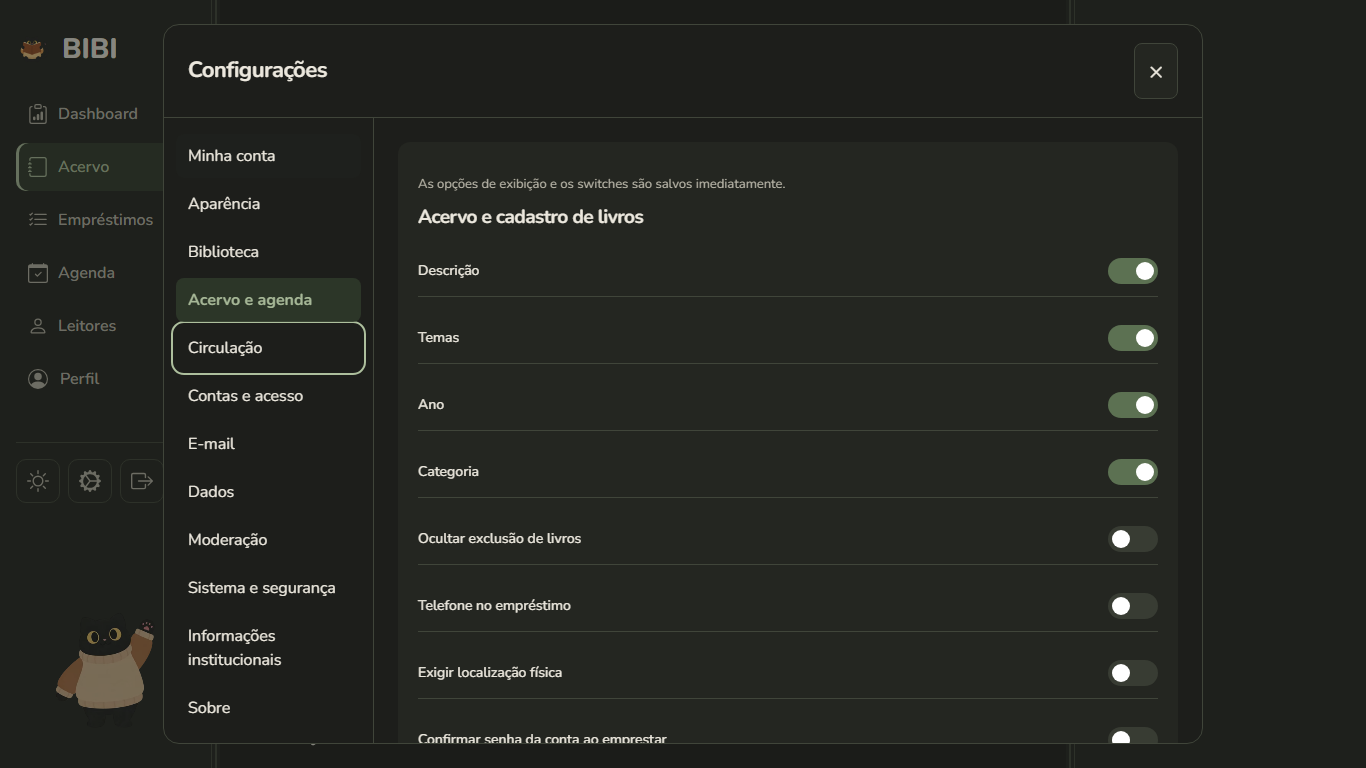
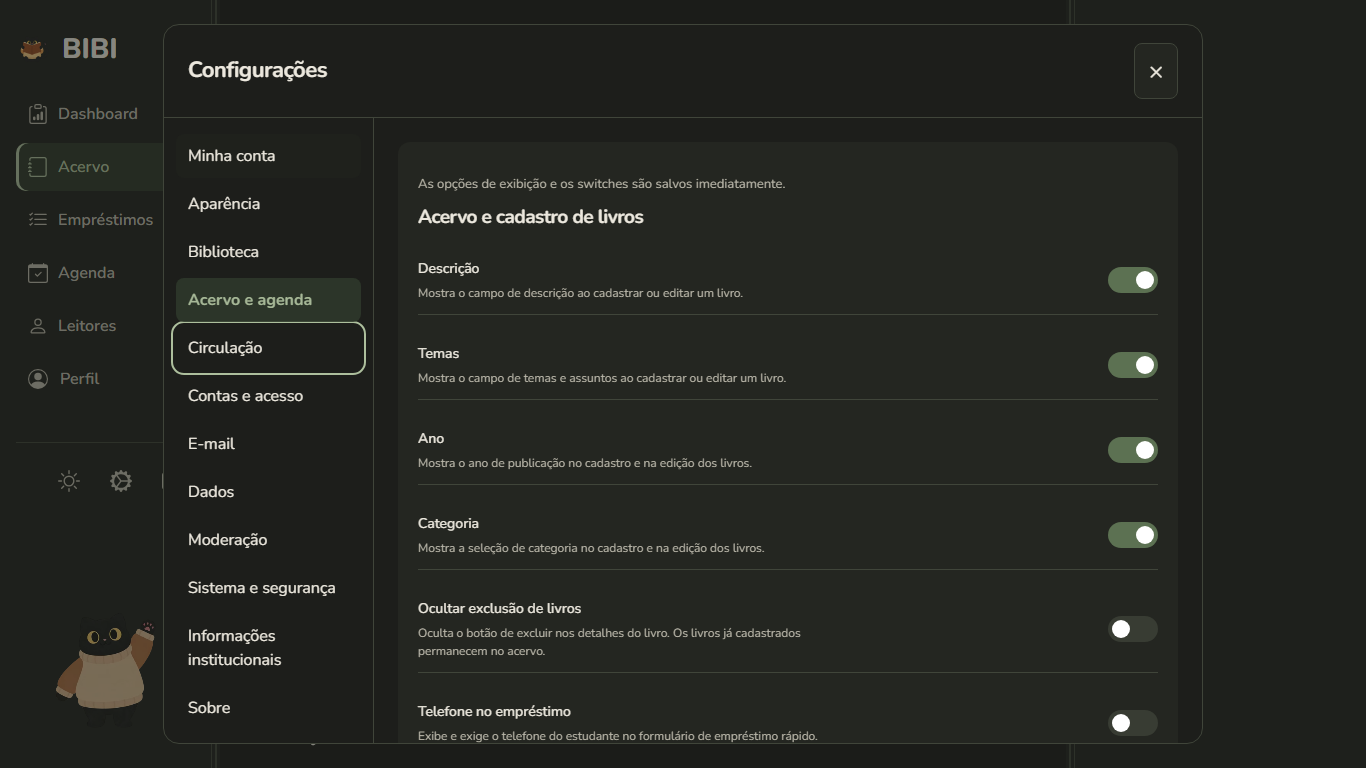
Corrige seleção de tema e numeração da agenda e restaura descrições das configurações

diff --git a/static/js/settings_help.js b/static/js/settings_help.js
@@ -1,0 +1,125 @@
+(() => {
+    const descriptions = {
+        '#settings-theme': 'Escolha entre as cores claras e escuras do BIBI. A preferência fica vinculada à sua conta e é salva na hora.',
+        '[data-setting="campoDescricaoVisivel"]': 'Mostra o campo de descrição ao cadastrar ou editar um livro.',
+        '[data-setting="campoTemasVisivel"]': 'Mostra o campo de temas e assuntos ao cadastrar ou editar um livro.',
+        '[data-setting="campoAnoVisivel"]': 'Mostra o ano de publicação no cadastro e na edição dos livros.',
+        '[data-setting="campoCategoriaVisivel"]': 'Mostra a seleção de categoria no cadastro e na edição dos livros.',
+        '[data-setting="bloquearExcluirLivro"]': 'Oculta o botão de excluir nos detalhes do livro. Os livros já cadastrados permanecem no acervo.',
+        '[data-setting="campoNumeroUsuario"]': 'Exibe e exige o telefone do estudante no formulário de empréstimo rápido.',
+        '[data-setting="mostrarColunaAula"]': 'Exibe a coluna com a numeração dos horários: 1ª aula, 2ª aula e assim por diante.',
+        '[data-setting="obrigar_localizacao_livro"]': 'Exige informar a prateleira ou localização física ao cadastrar um livro.',
+        '[data-setting="bloquear_excluir_agendamento"]': 'Impede excluir agendamentos já registrados. Novos agendamentos continuam disponíveis.',
+        '[data-setting="exigir_senha_agendamento"]': 'Solicita a senha real da conta para registrar um agendamento. Alterar esta opção também exige sua senha.',
+        '[data-setting="exigir_senha_emprestimo"]': 'Solicita a senha real da conta para registrar um empréstimo. Alterar esta opção também exige sua senha.',
+        '[data-setting="bloquear_email"]': 'Suspende os envios de e-mail da instalação. As notificações internas continuam disponíveis.',
+        '#password-form [name="senha_atual"]': 'Informe a senha que você usa atualmente para entrar no BIBI.',
+        '#password-form [name="senha"]': 'Use de 12 a 128 caracteres. Após a alteração, será necessário entrar novamente.',
+        '#password-form [name="confirmacao"]': 'Repita a nova senha para evitar erros de digitação.',
+        '#verify-email-form [name="email"]': 'Informe o endereço atual para verificá-lo ou um novo endereço para trocar seu e-mail de acesso.',
+        '#verify-email-form [name="senha_atual"]': 'Confirma que você autoriza o envio do código de verificação.',
+        '#confirm-email-form [name="codigo"]': 'Digite o código enviado ao endereço que deseja verificar.',
+        '#confirm-email-form [name="email"]': 'Use o mesmo endereço informado ao solicitar o código.',
+        '#institution-form [name="biblioteca_nome"]': 'Nome que identifica esta biblioteca nas informações institucionais.',
+        '#institution-form [name="endereco_rede"]': 'Endereço HTTPS usado para acessar o BIBI na rede. O servidor e o acesso seguro precisam estar configurados pela escola.',
+        '#institution-form [name="termos_uso"]': 'Regras de uso da biblioteca, responsabilidades e condições de acesso, visíveis na página institucional.',
+        '#institution-form [name="aviso_privacidade"]': 'Informe quem cuida dos dados, como entrar em contato, as finalidades de uso e os prazos de retenção.',
+        '#institution-form [name="senha_atual"]': 'Obrigatória ao mudar o endereço de acesso na rede.',
+        '#settings-lessons': 'Quantidade de horários exibidos por dia e período na Agenda, de 1 a 20. Use Salvar quantidade para aplicar.',
+        '#rules-form [name="retirada_horas"]': 'Tempo para o leitor retirar um exemplar separado. Defina este prazo para habilitar as reservas.',
+        '#invite-reader': 'Selecione o leitor que receberá o convite ou o código de recuperação. Confira sua identidade e seu e-mail.',
+        '#invite-form [name="finalidade"]': 'Ativação cria o acesso pessoal do leitor; recuperação permite que ele defina uma nova senha para uma conta existente.',
+        '#managed-account': 'Selecione a conta cujo acesso será alterado. Confira o nome e o papel antes de confirmar.',
+        '#access-form-admin [name="papel"]': 'Leitores acessam seus próprios dados. Bibliotecários também podem administrar a biblioteca.',
+        '#access-form-admin [name="ativa"]': 'Bloquear impede o acesso à conta. Reativar permite que a pessoa volte a entrar.',
+        '#access-form-admin [name="motivo"]': 'Explique a alteração. O motivo será registrado na auditoria.',
+        '#access-form-admin [name="senha_atual"]': 'Informe a senha da sua própria conta para autorizar a mudança de acesso.',
+        '#smtp-form [name="smtp_host"]': 'Servidor de envio informado pelo provedor do e-mail remetente, como smtp.gmail.com.',
+        '#smtp-form [name="smtp_port"]': 'Use a porta indicada pelo provedor: 587 com STARTTLS ou 465 com TLS.',
+        '#smtp-form [name="email_organizacao"]': 'Endereço que enviará os convites e avisos da biblioteca.',
+        '#smtp-form [name="email_app_password"]': 'Credencial de envio fornecida pelo provedor. Deixe vazio para manter a credencial já salva.',
+        '#smtp-form [name="remover_credencial"]': 'Apaga a credencial de envio ao salvar o remetente. Os envios precisarão ser configurados novamente.',
+        '#smtp-form [name="senha_atual"]': 'Necessária somente para autorizar a remoção da credencial salva.',
+        '#occurrence-book': 'Livro ao qual a perda, o dano, o reparo ou a baixa se refere.',
+        '#occurrence-form [name="tipo"]': 'Observação apenas registra o dano; reparo retira exemplares livres e retorno os devolve. Baixa e perda reduzem o estoque.',
+        '#occurrence-form [name="quantidade"]': 'Número de exemplares envolvidos nesta ocorrência.',
+        '#occurrence-form [name="emprestimo_id"]': 'Preencha para vincular uma perda ou observação a um empréstimo. Para exemplares livres, deixe vazio.',
+        '#occurrence-form [name="observacao"]': 'Descreva o ocorrido para preservar o contexto no histórico da biblioteca.',
+        '#csv-kind': 'Escolha o cadastro que será importado. Cada tipo possui seu próprio modelo de colunas.',
+        '#csv-file': 'Selecione um CSV com até 2 MB e 2.000 linhas. A prévia permite conferir os dados antes de importar.',
+        '#csv-mapping select': 'Escolha a coluna do arquivo que contém este dado. Confira o resultado na prévia antes de confirmar.',
+        '#dados form[method="get"] [name="formato"]': 'O agregado reúne totais mensais sem nomes. O detalhado inclui dados pessoais para uso administrativo.',
+        '#dados form[method="get"] [name="inicio"]': 'Inclui empréstimos a partir desta data. Deixe vazio para não definir uma data inicial.',
+        '#dados form[method="get"] [name="fim"]': 'Inclui empréstimos até esta data. Deixe vazio para não definir uma data final.',
+        '#dados form[method="get"] [name="status"]': 'Limita o relatório à situação escolhida ou inclui todas as situações.',
+        '#restore-password': 'Sua senha atual autoriza validar e restaurar o backup nesta instalação.',
+        '#restore-file': 'Selecione o arquivo ZIP de backup criado pelo BIBI. A validação confere o formato e os arquivos antes da restauração.',
+        '#restore-confirm': 'Confirma a substituição dos dados atuais pelo backup validado. Sessões e códigos anteriores serão invalidados.',
+        '#download-backup': 'Cria uma cópia consistente do banco e dos arquivos persistentes para baixar. Guarde o ZIP em local protegido.',
+        '#refresh-health': 'Consulta o estado atual desta instalação, sem fazer testes de conexão com serviços externos.',
+        '#hide-invite': 'Oculta o código nesta tela sem revogá-lo. Use após entregá-lo ao leitor.',
+        '#renewal-list input': 'Informe por que o pedido de renovação será recusado.',
+        '#moderation-list input': 'Registre o motivo para publicar ou ocultar o comentário; ele acompanha a decisão de moderação.',
+    };
+    for (const category of ['estudante','professor']) {
+        for (const [key,description] of Object.entries({
+            maximo:'Quantidade máxima de exemplares que uma pessoa desta categoria pode manter emprestados ao mesmo tempo.',
+            prazo:'Prazo de empréstimo em dias para esta categoria. Salvar não altera os vencimentos já registrados.',
+            renovacoes:'Número máximo de renovações permitidas por empréstimo. Zero impede renovações.',
+            bloquear_atraso:'Impede novos empréstimos e renovações para pessoas desta categoria com devoluções em atraso.',
+        })) descriptions[`#rules-form [name="${category}_${key}"]`]=description;
+    }
+    const formNotes = {
+        'verify-email-form':'O endereço de acesso só é atualizado após a confirmação do código. Sem envio de e-mail configurado, procure o bibliotecário.',
+        'confirm-email-form':'Confirmar o código verifica o endereço e encerra as sessões anteriores da conta.',
+        'institution-form':'Use Salvar instituição para aplicar as alterações destes campos.',
+        'rules-form':'Use Salvar regras para aplicar os limites e prazos de cada categoria.',
+        'invite-form':'Gerar código permite a entrega presencial. Enviar convite usa o remetente configurado. Revogar invalida os códigos ainda abertos deste leitor.',
+        'access-form-admin':'A confirmação encerra as sessões anteriores da conta alterada. O último bibliotecário ativo não pode ser bloqueado nem perder seu papel.',
+        'smtp-form':'Salve o remetente antes de testar. O teste envia uma mensagem ao e-mail da conta bibliotecária que o solicitou.',
+        'occurrence-form':'Registrar ocorrência grava o histórico e ajusta o estoque conforme o tipo escolhido.',
+        'csv-form':'Pré-visualizar não grava cadastros. Confira o mapeamento e os erros; só Confirmar importação adiciona os registros.',
+        'restore-form':'Validar backup não substitui dados. Restaurar exige um arquivo validado e a confirmação acima; ao concluir, você voltará ao login.',
+    };
+    const groupNotes = {
+        'renewal-list':'Revise os pedidos dos leitores. Aprovar estende o empréstimo conforme as regras; recusar exige informar o motivo.',
+        'audit-list':'Histórico das operações administrativas: quando ocorreram, qual conta agiu e o resultado registrado.',
+    };
+    let sequence=0;
+    window.descreverConfiguracoes=(root=document.getElementById('settings-content'))=>{
+        if(!root)return;
+        for(const [selector,text] of Object.entries(descriptions)) {
+            root.querySelectorAll(selector).forEach(control=>{
+                if(control.dataset.settingsHelp)return;
+                const help=document.createElement('small');help.className='settings-help';help.id='settings-help-'+(++sequence);help.textContent=text;
+                const label=control.closest('label');
+                if(label&&!control.hasAttribute('aria-label')){
+                    const title=[...label.childNodes].filter(node=>node.nodeType===Node.TEXT_NODE).map(node=>node.textContent).join(' ').trim();
+                    if(title)control.setAttribute('aria-label',title);
+                }
+                if(label?.classList.contains('config-toggle-row')){
+                    const copy=document.createElement('span');copy.className='config-toggle-copy';
+                    [...label.childNodes].filter(node=>node.nodeType===Node.TEXT_NODE).forEach(node=>copy.append(node));
+                    copy.append(help);label.prepend(copy);
+                }else if(label)label.append(help);
+                else control.after(help);
+                control.dataset.settingsHelp=help.id;
+                control.setAttribute('aria-describedby',[control.getAttribute('aria-describedby'),help.id].filter(Boolean).join(' '));
+                const wrapper=control.nextElementSibling;
+                if(control.tagName==='SELECT'&&wrapper?.classList.contains('custom-select')){
+                    wrapper.dataset.descriptionId=help.id;wrapper.querySelector('button')?.setAttribute('aria-describedby',help.id);
+                }
+            });
+        }
+        for(const [id,text] of Object.entries(formNotes)){
+            const form=root.querySelector('#'+id);
+            if(!form||form.querySelector('.settings-form-help'))continue;
+            const note=document.createElement('p');note.className='settings-form-help';note.textContent=text;form.append(note);
+        }
+        for(const [id,text] of Object.entries(groupNotes)){
+            const group=root.querySelector('#'+id);
+            if(!group||group.previousElementSibling?.dataset.settingsGroupHelp===id)continue;
+            const note=document.createElement('p');note.dataset.settingsGroupHelp=id;note.textContent=text;group.before(note);
+        }
+    };
+})();

diff --git a/static/js/gestao.js b/static/js/gestao.js
@@ -50,11 +50,12 @@ async function refreshLists(){
             else if(path==='avaliacoes'){article.append(accountText('strong',`${row.livro} · ${row.estrelas}/5 · ${row.estado}`),accountText('p',row.comentario));const reason=document.createElement('input');reason.placeholder='Motivo da moderação';reason.setAttribute('aria-label','Motivo da moderação');article.append(reason);for(const [label,state] of [['Publicar','publicado'],['Ocultar','oculto']])article.append(accountButton(label,async()=>{await accountApi('/api/gestao/avaliacoes/'+row.id,'PUT',{estado:state,motivo:reason.value});await refreshLists();}));}
             else article.append(accountText('p',`${row.quando} · Conta ${row.conta_id ?? 'sistema'} · ${row.acao} · ${row.recurso} · ${row.resultado}${row.motivo?' · '+row.motivo:''}`));container.append(article);
         }
+        window.descreverConfiguracoes?.(container);
     }
 }
 document.getElementById('csv-kind')?.addEventListener('change',event=>{document.getElementById('csv-model').href='/api/gestao/csv/modelo/'+event.target.value;csvData=null;document.getElementById('csv-confirm').disabled=true;});
 async function csvPreview(){const r=await accountApi(`/api/gestao/csv/${csvData.tipo}/previa`,'POST',{conteudo:csvData.conteudo,mapeamento:csvMapping});const container=document.getElementById('csv-preview');container.replaceChildren(accountText('p',`${r.linhas.length} linhas. ${r.linhas.filter(l=>l.erros.length).length} com erros.`));r.linhas.slice(0,100).forEach(row=>container.append(accountText('p',`Linha ${row.linha}: ${Object.values(row.dados).join(' · ')}${row.erros.length?' — '+row.erros.join(' '):''}`)));document.getElementById('csv-confirm').disabled=!r.linhas.length||r.linhas.some(l=>l.erros.length);return r;}
-accountForm('csv-form',async data=>{const file=document.getElementById('csv-file').files[0];if(file.size>2*1024*1024)throw new Error('Limite de 2 MB.');csvData={tipo:data.tipo,conteudo:await file.text()};csvMapping={};const r=await csvPreview();const map=document.getElementById('csv-mapping');map.replaceChildren();for(const key of r.campos){const label=accountText('label',key);const select=document.createElement('select');select.append(option('','Não informado'));r.colunas.forEach(col=>select.append(option(col,col)));select.value=r.colunas.includes(key)?key:'';select.onchange=async()=>{csvMapping[key]=select.value;await csvPreview();};label.append(select);map.append(label);}});
+accountForm('csv-form',async data=>{const file=document.getElementById('csv-file').files[0];if(file.size>2*1024*1024)throw new Error('Limite de 2 MB.');csvData={tipo:data.tipo,conteudo:await file.text()};csvMapping={};const r=await csvPreview();const map=document.getElementById('csv-mapping');map.replaceChildren();for(const key of r.campos){const label=accountText('label',key);const select=document.createElement('select');select.append(option('','Não informado'));r.colunas.forEach(col=>select.append(option(col,col)));select.value=r.colunas.includes(key)?key:'';select.onchange=async()=>{csvMapping[key]=select.value;await csvPreview();};label.append(select);map.append(label);}window.descreverConfiguracoes?.(map);});
 accountAction(document.getElementById('csv-confirm'),async()=>{if(!confirm('Importar os registros da prévia?'))return;const r=await accountApi(`/api/gestao/csv/${csvData.tipo}/importar`,'POST',{conteudo:csvData.conteudo,mapeamento:csvMapping,confirmado:true});status.textContent=`${r.importados} registros importados.`;csvData=null;document.getElementById('csv-confirm').disabled=true;document.getElementById('csv-form').reset();window.settingsSaved?.(document.getElementById('csv-form'));await loadManagement(false);});
 accountAction(document.getElementById('download-backup'),async()=>{const response=await fetch('/api/gestao/backup',{method:'POST',headers:{'X-CSRF-Token':document.querySelector('meta[name=csrf-token]').content}});if(!response.ok)throw new Error((await response.json()).erro);const url=URL.createObjectURL(await response.blob());const link=document.createElement('a');link.href=url;link.download='BIBI-backup.zip';link.click();setTimeout(()=>URL.revokeObjectURL(url),10000);status.textContent='Backup criado. Guarde o arquivo em local protegido.';});
 async function restoreRequest(confirm){const data=new FormData();data.append('arquivo',document.getElementById('restore-file').files[0]);data.append('confirmado',String(confirm));data.append('senha_atual',document.getElementById('restore-password').value);const response=await fetch('/api/gestao/restaurar',{method:'POST',headers:{'X-CSRF-Token':document.querySelector('meta[name=csrf-token]').content},body:data});const r=await response.json();if(!response.ok)throw new Error(r.erro);return r;}

diff --git a/static/js/preferencias.js b/static/js/preferencias.js
@@ -5,7 +5,7 @@ theme.addEventListener('change',async()=>{
  window.settingsOperation?.(theme,1);theme.disabled=true;
  try{await accountApi('/api/minha-conta/preferencias','PUT',{tema:theme.value});
  const config=JSON.parse(localStorage.getItem('bibiConfig')||'{}');config.darkMode=theme.value==='escuro';localStorage.setItem('bibiConfig',JSON.stringify(config));document.body.classList.toggle('dark-mode',config.darkMode);document.getElementById('theme-toggle-btn').setAttribute('aria-pressed',String(config.darkMode));if(document.body.dataset.page==='app')toggleTheme(config.darkMode);
- }catch(e){document.getElementById('settings-status').textContent=e.message;}
+ }catch(e){theme.value=document.body.classList.contains('dark-mode')?'escuro':'claro';document.getElementById('settings-status').textContent=e.message;}
  finally{theme.disabled=false;window.settingsOperation?.(theme,-1);}
 });
 async function settingsControls(){
@@ -14,11 +14,11 @@ async function settingsControls(){
  const globalFields=await accountApi('/api/config/cadastro');Object.assign(config,globalFields);
  const fieldKeys=['campoDescricaoVisivel','campoTemasVisivel','campoAnoVisivel','campoCategoriaVisivel','bloquearExcluirLivro','campoNumeroUsuario','mostrarColunaAula'];
  for(const [key,label] of [['campoDescricaoVisivel','Descrição'],['campoTemasVisivel','Temas'],['campoAnoVisivel','Ano'],['campoCategoriaVisivel','Categoria'],['bloquearExcluirLivro','Ocultar exclusão de livros'],['campoNumeroUsuario','Telefone no empréstimo'],['mostrarColunaAula','Mostrar coluna Aula']]){
-  const row=accountText('label',label,'config-toggle-row');const input=document.createElement('input');input.type='checkbox';input.checked=config[key]??!['bloquearExcluirLivro','campoNumeroUsuario'].includes(key);row.prepend(input);
+  const row=accountText('label',label,'config-toggle-row');const input=document.createElement('input');input.type='checkbox';input.dataset.setting=key;input.checked=config[key]??!['bloquearExcluirLivro','campoNumeroUsuario'].includes(key);row.prepend(input);
   input.onchange=async()=>{window.settingsOperation?.(input,1);input.disabled=true;config[key]=input.checked;try{await accountApi('/api/config/cadastro','PUT',Object.fromEntries(fieldKeys.map(k=>[k,config[k]??!['bloquearExcluirLivro','campoNumeroUsuario'].includes(k)])));config.darkMode=document.body.classList.contains('dark-mode');localStorage.setItem('bibiConfig',JSON.stringify(config));}catch(e){input.checked=!input.checked;config[key]=input.checked;document.getElementById('settings-status').textContent=e.message;}finally{input.disabled=false;window.settingsOperation?.(input,-1);}};document.getElementById(key==='mostrarColunaAula'?'agenda-settings':'book-settings').append(row);
  }
  for(const [key,label,container,field] of [['obrigar_localizacao_livro','Exigir localização física','book-settings','ativo'],['bloquear_excluir_agendamento','Bloquear exclusão de agendamento','agenda-settings','ativo'],['exigir_senha_agendamento','Confirmar senha da conta ao agendar','agenda-settings','ativo'],['exigir_senha_emprestimo','Confirmar senha da conta ao emprestar','book-settings','ativo'],['bloquear_email','Bloquear envio de e-mail','email','bloqueado']]){
-  const value=await accountApi('/api/config/'+key+'/status');const labelEl=accountText('label',label,'config-toggle-row');const input=document.createElement('input');input.type='checkbox';input.checked=value[field];labelEl.prepend(input);document.getElementById(container).append(labelEl);
+  const value=await accountApi('/api/config/'+key+'/status');const labelEl=accountText('label',label,'config-toggle-row');const input=document.createElement('input');input.type='checkbox';input.dataset.setting=key;input.checked=value[field];labelEl.prepend(input);document.getElementById(container).append(labelEl);
   input.onchange=async()=>{window.settingsOperation?.(input,1);input.disabled=true;try{const senha_atual=key.startsWith('exigir_senha')?await confirmarSenhaConta():undefined;if(senha_atual===null){input.checked=!input.checked;return;}await accountApi('/api/config/'+key+'/set','POST',{[field]:input.checked,senha_atual});}catch(e){input.checked=!input.checked;document.getElementById('settings-status').textContent=e.message;}finally{input.disabled=false;window.settingsOperation?.(input,-1);}};
  }
  document.getElementById('settings-lessons').value=(await accountApi('/api/config/quantidade_aulas/status')).quantidade;

diff --git a/static/js/ui.js b/static/js/ui.js
@@ -109,9 +109,12 @@ class CustomSelect {
         const control=document.createElement('button');control.type='button';control.className='select-selected';
         control.setAttribute('role','combobox');control.setAttribute('aria-haspopup','listbox');control.setAttribute('aria-expanded','false');
         control.setAttribute('aria-label',this.container.dataset.label || this.container.previousElementSibling?.textContent || 'Selecionar opção');
+        if(this.container.dataset.descriptionId)control.setAttribute('aria-describedby',this.container.dataset.descriptionId);
         const label=document.createElement('span');control.append(label);
         const list=document.createElement('div');list.className='select-items';list.role='listbox';list.id='bibi-options-'+crypto.getRandomValues(new Uint32Array(1))[0];control.setAttribute('aria-controls',list.id);
         this.options.forEach((opt,index)=>{const item=document.createElement('div');item.textContent=opt.text;item.dataset.value=String(opt.value);item.role='option';item.id=list.id+'-'+index;
+            // Keep focus on the combobox until click commits the option.
+            item.addEventListener('mousedown',event=>event.preventDefault());
             item.addEventListener('click',()=>{if(opt.disabled)return;this.setValue(opt.value);this.close();control.focus();});list.append(item);});
         control.addEventListener('click',()=>this.toggle());
         control.addEventListener('keydown',event=>{
@@ -141,6 +144,7 @@ function enhanceNativeSelects(){
  document.querySelectorAll('select:not([multiple])').forEach(select=>{
   if(select.dataset.enhanced)return;
   const wrapper=document.createElement('div');wrapper.dataset.label=select.getAttribute('aria-label') || Array.from(select.labels?.[0]?.childNodes||[]).filter(n=>n.nodeType===3).map(n=>n.textContent).join('').trim() || 'Selecionar opção';select.after(wrapper);
+  wrapper.dataset.descriptionId=select.getAttribute('aria-describedby')||'';
   const options=()=>Array.from(select.options,o=>({value:o.value,text:o.text,disabled:o.disabled}));
   const component=new CustomSelect(wrapper,options(),value=>{if(select.disabled)return;select.value=value;select.dispatchEvent(new Event('change',{bubbles:true}));},select.value);
   wrapper.querySelector('button').disabled=select.disabled;

diff --git a/static/css/contas.css b/static/css/contas.css
@@ -118,6 +118,10 @@
 .settings-panels pre { white-space:pre-wrap; overflow-wrap:anywhere; font-size:12px; }
 .settings-panels .config-toggle-row { flex-direction:row; align-items:center; justify-content:space-between; gap:20px; padding:12px 0; border-bottom:1px solid var(--border); font-weight:500; }
 .config-toggle-row .switch { flex-shrink:0; order:2; }
+.config-toggle-copy { flex:1; min-width:0; }
+.settings-panels .settings-help { display:block; margin-top:6px; color:var(--light); font-size:12px; font-weight:400; line-height:1.5; }
+.settings-panels .config-toggle-copy .settings-help { margin-top:5px; max-width:62ch; }
+.settings-panels .settings-form-help { font-size:12px; margin:12px 0 0; }
 .health-summary { display:grid; grid-template-columns:minmax(100px,1fr) minmax(0,2fr); gap:14px; font-size:14px; }
 .health-summary dd { margin:0; overflow-wrap:anywhere; }
 .health-summary dt { font-weight:600; }
@@ -169,7 +173,7 @@
 @media(min-width:1000px){.avatar-preview-column { position:sticky; top:0; }.avatar-preview { position:static; }.avatar-actions { flex-direction:column; }#avatar-options { grid-row:auto; }}
 @media(max-width:600px){.avatar-preview img { width:170px; height:170px; }.avatar-actions .btn-primary { flex-basis:100%; }.avatar-choices { grid-template-columns:repeat(auto-fill,minmax(76px,1fr)); }}
 
-.sidebar-buttons .icon-item { background:transparent; color:var(--light); border:1px solid var(--border); border-radius:10px; }
+.sidebar-buttons .icon-item { background:transparent; color:var(--light); border:0; border-radius:10px; }
 .sidebar-buttons .icon-item:hover { background:var(--accent-soft); color:var(--accent-strong); }
 .sidebar-buttons .icon-item svg { width:22px; height:22px; }
 .settings-panels .custom-select { margin-top:7px; width:100%; }

diff --git a/templates/acesso.html b/templates/acesso.html
@@ -6,7 +6,7 @@
 <main class="account-card">
 <a href="/" class="account-brand"><img src="/static/images/icon.png" alt=""> BIBI</a>
 {% if modo == 'setup' %}<h1>Vamos preparar sua biblioteca</h1><p>Cadastre o primeiro bibliotecário. Seus livros e históricos existentes serão preservados. Não é necessário configurar e-mail agora.</p>
-{% elif modo == 'offline' %}<h1>Recuperação local</h1><p>No servidor, use Conta → Recuperar conta na janela desktop. {% if legado %}Um código legado desta instalação ainda pode ser usado uma única vez.{% else %}A recuperação será aberta pelo menu nativo; não há código manual para guardar.{% endif %}</p>
+{% elif modo == 'offline' %}<h1>Recuperação local</h1><p>No servidor, pressione Alt e use Conta → Recuperar conta na janela desktop. {% if legado %}Um código legado desta instalação ainda pode ser usado uma única vez.{% else %}A recuperação será aberta pelo menu nativo; não há código manual para guardar.{% endif %}</p>
 {% else %}<h1 id="access-title">Entrar na biblioteca</h1><button type="button" id="back-login" hidden>Voltar para entrar</button><p id="access-help" hidden></p>{% endif %}
 <form id="access-form" method="post">
 {% if modo == 'setup' %}<label>Biblioteca ou escola<input name="biblioteca" required maxlength="180" autocomplete="organization"></label><label>Nome do bibliotecário<input name="nome" required maxlength="180" autocomplete="name"></label>{% endif %}

diff --git a/static/js/settings_modal.js b/static/js/settings_modal.js
@@ -27,6 +27,7 @@
         accountForm('password-form',async data=>{await accountApi('/api/minha-conta/senha','POST',data);location.assign('/acesso');});
         accountForm('verify-email-form',async(data,form)=>{const r=await accountApi('/api/minha-conta/email/enviar','POST',data);form.elements.senha_atual.value='';accountStatus(r.mensagem,form);});
         accountForm('confirm-email-form',async data=>{await accountApi('/api/minha-conta/email/confirmar','POST',data);location.assign('/acesso');});
+        await script('/static/js/settings_help.js');
         await script('/static/js/preferencias.js');
         await window.settingsPreferencesReady;
         if(document.body.dataset.admin==='true'){
@@ -36,6 +37,7 @@
         content.querySelectorAll('.settings-panels > section').forEach(panel=>panel.classList.add('config-panel'));
         const note=accountText('p','As opções de exibição e os switches são salvos imediatamente.');
         document.getElementById('cadastro')?.prepend(note);
+        window.descreverConfiguracoes(content);
         snapshot();
     }
     window.abrirConfiguracoesCompartilhadas=async(key='minha-conta')=>{

diff --git a/static/css/app.css b/static/css/app.css
@@ -697,7 +697,7 @@ h2 { font-size: clamp(22px, 1.8vw, 30px); line-height: 1.25; letter-spacing: -.5
 .section-header { margin-bottom: 22px; }
 .nav-menu li.active { background: var(--accent-soft); color: var(--accent-strong); box-shadow: inset 3px 0 var(--accent-strong); }
 .nav-menu li:hover { background: var(--accent-soft); color: var(--accent-strong); }
-.sidebar-buttons { justify-content: flex-start; margin-top: 24px; border-top: 1px solid var(--border); padding-top: 16px; }
+.sidebar-buttons { justify-content: flex-end; margin-top: 24px; border-top: 1px solid var(--border); padding-top: 16px; }
 .right-bar { padding: 24px; text-align: left; }
 .details-header { display: flex; align-items: center; justify-content: space-between; gap: 8px; }
 .details-header .eyebrow { margin: 0; font-size: 9px; }

diff --git a/static/js/configuracoes.js b/static/js/configuracoes.js
@@ -1,9 +1,5 @@
 function carregarConfig() {
-    const str = localStorage.getItem(CONFIG_STORAGE_KEY);
-    if (str) {
-        try { return JSON.parse(str); } catch(e) {}
-    }
-    return {
+    const defaults = {
         darkMode: false,
         mostrarColunaAula: true,
         campoDescricaoVisivel: true,
@@ -13,6 +9,13 @@ function carregarConfig() {
         campoNumeroUsuario: false,
         bloquearExcluirLivro: false
     };
+    try {
+        const saved = JSON.parse(localStorage.getItem(CONFIG_STORAGE_KEY) || 'null');
+        if (saved && typeof saved === 'object' && !Array.isArray(saved)) {
+            return {...defaults, ...saved};
+        }
+    } catch(e) {}
+    return defaults;
 }
 
 function salvarConfig(config) {

diff --git a/static/js/agenda.js b/static/js/agenda.js
@@ -9,7 +9,7 @@ async function carregarAgenda() {
     const tabela = document.getElementById('tabela-agenda');
     tabela.innerHTML = '';
     const config = carregarConfig();
-    const mostrarColunaAula = config.mostrarColunaAula;
+    const mostrarColunaAula = config.mostrarColunaAula !== false;
     const qtdAulas = configAgenda.aulas;
     const head = document.createElement('thead');
     const header = document.createElement('tr');

diff --git a/tests/browser_theme.py b/tests/browser_theme.py
@@ -1,0 +1,48 @@
+"""Exercise actual custom-select clicks, keyboard and preference handlers offline."""
+from pathlib import Path
+import json
+from playwright.sync_api import sync_playwright, expect
+
+ROOT=Path(__file__).resolve().parents[1]
+with sync_playwright() as p:
+    browser=p.chromium.launch()
+    page=browser.new_page()
+    state={'tema':'claro','writes':[],'fail':False}
+    def respond(route):
+        if route.request.url.endswith('/api/minha-conta/preferencias'):
+            if route.request.method=='PUT':
+                if state['fail']:
+                    route.fulfill(status=503,content_type='application/json',body=json.dumps({'erro':'Falha simulada.'}));return
+                state['tema']=route.request.post_data_json['tema'];state['writes'].append(state['tema'])
+            route.fulfill(content_type='application/json',body=json.dumps({'tema':state['tema']}))
+        else:
+            route.fulfill(content_type='text/html',body='''<meta name="csrf-token" content="synthetic"><body data-page="perfil">
+            <label>Tema<select id="settings-theme"><option value="claro">Claro</option><option value="escuro">Escuro</option></select></label>
+            <button id="theme-toggle-btn"></button><p id="settings-status"></p></body>''')
+    page.route('http://bibi.test/**',respond)
+    page.goto('http://bibi.test/')
+    page.add_style_tag(content='.select-items{display:none}.select-selected,.select-items div{padding:12px}')
+    for script in ['ui.js','conta_comum.js','preferencias.js']:
+        page.add_script_tag(path=str(ROOT/'static/js'/script))
+    page.evaluate('enhanceNativeSelects()')
+    control=page.locator('#settings-theme + .custom-select button')
+    for label,value in [('Escuro','escuro'),('Claro','claro')]:
+        control.click();page.get_by_role('option',name=label,exact=True).click()
+        expect(control).to_be_enabled()
+        expect(page.locator('#settings-theme')).to_have_value(value)
+        page.wait_for_function('(dark)=>document.body.classList.contains("dark-mode")===dark',arg=value=='escuro')
+        assert state['tema']==value
+        assert page.evaluate("JSON.parse(localStorage.getItem('bibiConfig')).darkMode")== (value=='escuro')
+    for key,value in [('ArrowDown','escuro'),('ArrowUp','claro')]:
+        control.focus();page.keyboard.press(key)
+        page.wait_for_function('(dark)=>document.body.classList.contains("dark-mode")===dark',arg=value=='escuro')
+        expect(control).to_be_enabled()
+        assert state['tema']==value
+    assert state['writes']==['escuro','claro','escuro','claro']
+    state['fail']=True
+    control.click();page.get_by_role('option',name='Escuro',exact=True).click()
+    expect(page.locator('#settings-status')).to_have_text('Falha simulada.')
+    expect(page.locator('#settings-theme')).to_have_value('claro')
+    assert not page.evaluate('document.body.classList.contains("dark-mode")')
+    browser.close()
+print('PASS: theme changes by actual mouse clicks and keyboard, persists, and rolls back on failure.')

diff --git a/desktop.py b/desktop.py
@@ -3,12 +3,19 @@ import threading
 from waitress import create_server
 
 
-FULLSCREEN_SHORTCUT = """
+DESKTOP_SHORTCUTS = """
 (() => {
-    if (window.__bibiFullscreenShortcut) return;
-    window.__bibiFullscreenShortcut = true;
+    if (window.__bibiDesktopShortcuts) return;
+    window.__bibiDesktopShortcuts = true;
     let pending = false;
+    let altOnly = false;
     document.addEventListener('keydown', event => {
+        if (event.key === 'Alt' && !event.ctrlKey && !event.metaKey) {
+            event.preventDefault();
+            if (!event.repeat) altOnly = true;
+            return;
+        }
+        altOnly = false;
         if (event.key !== 'F11' || event.ctrlKey || event.altKey || event.metaKey) return;
         event.preventDefault();
         event.stopImmediatePropagation();
@@ -18,6 +25,15 @@ FULLSCREEN_SHORTCUT = """
             .catch(() => console.error('Não foi possível alternar a tela cheia.'))
             .finally(() => { pending = false; });
     }, true);
+    document.addEventListener('keyup', event => {
+        if (event.key !== 'Alt') return;
+        if (altOnly) {
+            event.preventDefault();
+            window.pywebview.api.alternar_menu();
+        }
+        altOnly = false;
+    }, true);
+    window.addEventListener('blur', () => { altOnly = false; });
 })();
 """
 
@@ -39,9 +55,26 @@ def run_desktop(app):
         window = webview.create_window('BIBI — Biblioteca Inteligente','http://127.0.0.1:5000',width=1366,height=768,resizable=True)
         def alternar_tela_cheia():
             window.toggle_fullscreen()
-        window.expose(alternar_tela_cheia)
+        def update_menu(toggle=False):
+            # Recovery remains a native action; JS can only show or hide the menu.
+            from System import Action
+            from System.Windows.Forms import MenuStrip
+            def update():
+                for control in window.native.Controls:
+                    if isinstance(control, MenuStrip):
+                        if not toggle:
+                            control.MenuDeactivate += lambda sender, args: setattr(sender,'Visible',False)
+                        control.Visible = not control.Visible if toggle else False
+            if window.native.InvokeRequired:
+                window.native.Invoke(Action(update))
+            else:
+                update()
+        def alternar_menu():
+            update_menu(toggle=True)
+        window.expose(alternar_tela_cheia, alternar_menu)
+        window.events.before_show += update_menu
         def bind_shortcuts():
-            window.evaluate_js(FULLSCREEN_SHORTCUT)
+            window.evaluate_js(DESKTOP_SHORTCUTS)
         window.events.loaded += bind_shortcuts
         def recover():
             token = recovery.abrir()
